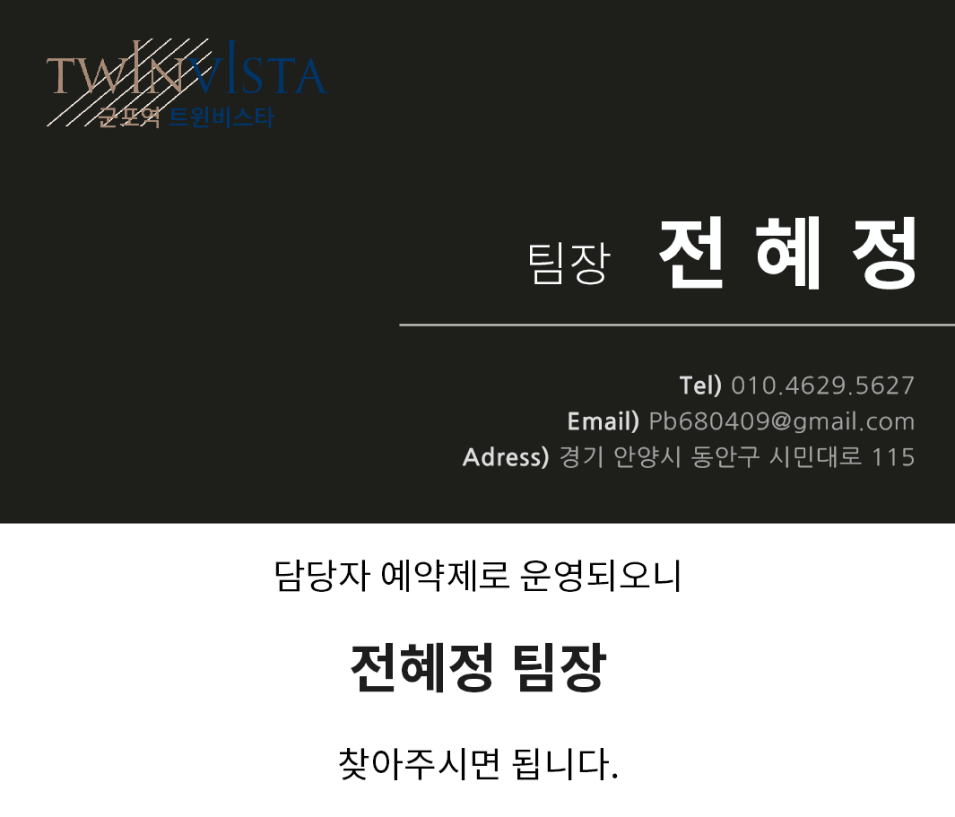
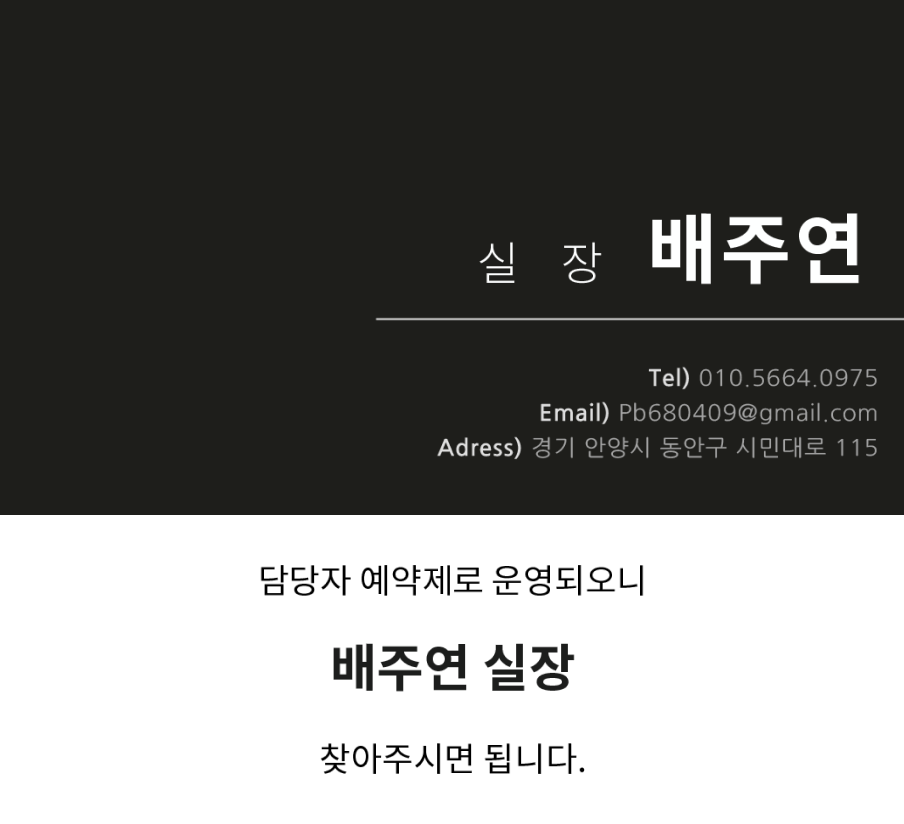
ch

diff --git a/src/index.html b/src/index.html
@@ -24,7 +24,7 @@
       <div class="left-content">
         <img src="../assets/명함 완성본.png" alt="card_1" />
         <div class="bbtn-area">
-          <a href="tel:010-4629-5627" class="bbtn">
+          <a href="tel:010-5664-0975" class="bbtn">
             <p>전화 상담</p>
           </a>
           <!-- <a href="sms:01046295627&body=군포역 트윈비스타 분양 정보 문의합니다." class="bbtn">문자발송</a> -->

diff --git a/static/js/app.js b/static/js/app.js
@@ -16,6 +16,6 @@ btn.addEventListener('click', function() {
 });
 
 function checkM(m){
-	location.href = 'sms:' +'01046295627'+(m == 'ios' ? '&' : '?') + 'body='+ encodeURIComponent("군포역 트윈비스타 분양 정보 문의합니다.");
+	location.href = 'sms:' +'01056640975'+(m == 'ios' ? '&' : '?') + 'body='+ encodeURIComponent("군포역 트윈비스타 분양 정보 문의합니다.");
   console.log()
 }
